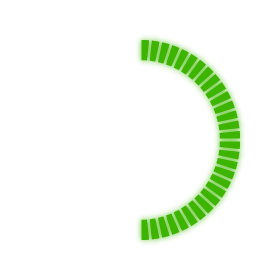
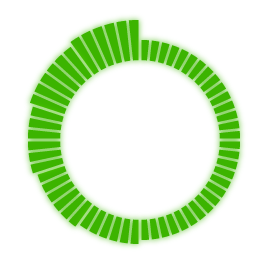
Hp, Steam 동작

Changed region(s): [[0.0857, 0.0571, 0.5143, 0.8857]]

diff --git a/Robotopia/Classes/SteamLayer.cpp b/Robotopia/Classes/SteamLayer.cpp
@@ -2,8 +2,10 @@
 #include "SteamLayer.h"
 #include "Player.h"
 #include "StageManager.h"
+#include "DataManager.h"
 #include "ResourceManager.h"
 #include "InputManager.h"
+#include "EquipmentSteamContainer.h"
 
 SteamLayer::SteamLayer()
 {
@@ -19,32 +21,27 @@ bool SteamLayer::init()
 	{
 		return false;
 	}
-	m_Steam0 = GET_RESOURCE_MANAGER()->createSprite(ST_STEAM_BEAR_00);
-	m_Steam1 = GET_RESOURCE_MANAGER()->createSprite(ST_STEAM_BEAR_01);
-	m_Steam2 = GET_RESOURCE_MANAGER()->createSprite(ST_STEAM_BEAR_02);
-	m_Steam3 = GET_RESOURCE_MANAGER()->createSprite(ST_STEAM_BEAR_03);
-	m_Steam4 = GET_RESOURCE_MANAGER()->createSprite(ST_STEAM_BEAR_04);
-	m_Steam5 = GET_RESOURCE_MANAGER()->createSprite(ST_STEAM_BEAR_05);
+	m_SteamSprite = GET_RESOURCE_MANAGER()->createSprite(ST_STEAM_BEAR_00);
+	m_SteamBar = cocos2d::ProgressTimer::create(m_SteamSprite);
+	m_SteamBar->setScale(0.75f);
+	m_SteamBar->setPosition(cocos2d::Point(160 * RESOLUTION, 160 * RESOLUTION));
+	m_SteamBar->setPercentage(0);
+	m_SteamBar->setBarChangeRate(cocos2d::Point(0, 1));
+	m_SteamBar->setType(cocos2d::ProgressTimer::Type::RADIAL);
+	this->addChild(m_SteamBar);
 
-	m_SteamMask0 = GET_RESOURCE_MANAGER()->createSprite(ST_STEAM_MASK_HALF);
-	m_SteamMask1 = GET_RESOURCE_MANAGER()->createSprite(ST_STEAM_MASK_PART);
-	m_SteamMask2 = GET_RESOURCE_MANAGER()->createSprite(ST_STEAM_MASK_PART);
-	m_SteamMask3 = GET_RESOURCE_MANAGER()->createSprite(ST_STEAM_MASK_PART);
-	m_SteamMask4 = GET_RESOURCE_MANAGER()->createSprite(ST_STEAM_MASK_PART);
-	m_SteamMask5 = GET_RESOURCE_MANAGER()->createSprite(ST_STEAM_MASK_PART);
-	
-	setSteamMask(m_Steam0, m_SteamMask0);
-	setSteamMask(m_Steam1, m_SteamMask1);
-	setSteamMask(m_Steam2, m_SteamMask2);
-	setSteamMask(m_Steam3, m_SteamMask3);
-	setSteamMask(m_Steam4, m_SteamMask4);
-	setSteamMask(m_Steam5, m_SteamMask5);
-
-	m_SteamMask1->setRotation(-144);
-	m_SteamMask2->setRotation(-108);
-	m_SteamMask3->setRotation(-72);
-	m_SteamMask4->setRotation(-36);
-	
+	int steamContainer = static_cast<int>(GET_DATA_MANAGER()->getEquipmentItem().m_Steam);
+	m_SteamLevel = (GET_DATA_MANAGER()->getEquipmentInfo(EMT_STEAMCONTAINER, steamContainer)->m_Level) % 5;
+	if (m_SteamLevel < 0)
+	{
+		m_SteamLevel = 0;
+	}
+	else if (m_SteamLevel > 5)
+	{
+		m_SteamLevel = 5;
+	}
+	m_SteamLevel = 2;
+	m_SteamMaxPercent = 10.0f * m_SteamLevel + 50;
 	return true;
 }
 
@@ -53,21 +50,7 @@ void SteamLayer::update(float dTime)
 	const PlayerInfo player = GET_STAGE_MANAGER()->getPlayer()->getInfo();
 	GearType newGear = player.m_Gear;
 	changeSteamColor(newGear);
-	controlSteam(0, player.m_MaxSteam, player.m_CurrentSteam);
-}
-
-void SteamLayer::setSteamMask(cocos2d::Sprite* steam, cocos2d::Sprite* steamMask)
-{
-	setUIProperties(steam, cocos2d::Point(0.5, 0.5), cocos2d::Point(160 * RESOLUTION, 160 * RESOLUTION), 0.75f, true, 7);
-	setUIProperties(steamMask, cocos2d::Point(0.5, 0.5), cocos2d::Point(160 * RESOLUTION, 160 * RESOLUTION), 0.75f, true, 7);
-	cocos2d::ClippingNode* clipper = cocos2d::ClippingNode::create();
-	clipper->setInverted(true);
-	clipper->setAlphaThreshold(0);
-	clipper->addChild(steam);
-	cocos2d::Node* node = cocos2d::Node::create();
-	node->addChild(steamMask);
-	clipper->setStencil(node);
-	this->addChild(clipper);
+	controlSteam(player.m_MaxSteam, player.m_CurrentSteam);
 }
 
 void SteamLayer::changeSteamColor(GearType gear)
@@ -75,67 +58,30 @@ void SteamLayer::changeSteamColor(GearType gear)
 	switch (gear)
 	{
 	case GEAR_EAGLE:
-		m_Steam0->setTexture(GET_RESOURCE_MANAGER()->createSprite(ST_STEAM_EAGLE_00)->getTexture());
-		m_Steam1->setTexture(GET_RESOURCE_MANAGER()->createSprite(ST_STEAM_EAGLE_01)->getTexture());
-		m_Steam2->setTexture(GET_RESOURCE_MANAGER()->createSprite(ST_STEAM_EAGLE_02)->getTexture());
-		m_Steam3->setTexture(GET_RESOURCE_MANAGER()->createSprite(ST_STEAM_EAGLE_03)->getTexture());
-		m_Steam4->setTexture(GET_RESOURCE_MANAGER()->createSprite(ST_STEAM_EAGLE_04)->getTexture());
-		m_Steam5->setTexture(GET_RESOURCE_MANAGER()->createSprite(ST_STEAM_EAGLE_05)->getTexture());
+		m_SteamSprite->setTexture(GET_RESOURCE_MANAGER()->createSprite(ST_STEAM_EAGLE_00)->getTexture());
 		break;
 	case GEAR_BEAR:
-		m_Steam0->setTexture(GET_RESOURCE_MANAGER()->createSprite(ST_STEAM_BEAR_00)->getTexture());
-		m_Steam1->setTexture(GET_RESOURCE_MANAGER()->createSprite(ST_STEAM_BEAR_01)->getTexture());
-		m_Steam2->setTexture(GET_RESOURCE_MANAGER()->createSprite(ST_STEAM_BEAR_02)->getTexture());
-		m_Steam3->setTexture(GET_RESOURCE_MANAGER()->createSprite(ST_STEAM_BEAR_03)->getTexture());
-		m_Steam4->setTexture(GET_RESOURCE_MANAGER()->createSprite(ST_STEAM_BEAR_04)->getTexture());
-		m_Steam5->setTexture(GET_RESOURCE_MANAGER()->createSprite(ST_STEAM_BEAR_05)->getTexture());
+		m_SteamSprite->setTexture(GET_RESOURCE_MANAGER()->createSprite(ST_STEAM_BEAR_00)->getTexture());
 		break;
 	case GEAR_MONKEY:
-		m_Steam0->setTexture(GET_RESOURCE_MANAGER()->createSprite(ST_STEAM_MONKEY_00)->getTexture());
-		m_Steam1->setTexture(GET_RESOURCE_MANAGER()->createSprite(ST_STEAM_MONKEY_01)->getTexture());
-		m_Steam2->setTexture(GET_RESOURCE_MANAGER()->createSprite(ST_STEAM_MONKEY_02)->getTexture());
-		m_Steam3->setTexture(GET_RESOURCE_MANAGER()->createSprite(ST_STEAM_MONKEY_03)->getTexture());
-		m_Steam4->setTexture(GET_RESOURCE_MANAGER()->createSprite(ST_STEAM_MONKEY_04)->getTexture());
-		m_Steam5->setTexture(GET_RESOURCE_MANAGER()->createSprite(ST_STEAM_MONKEY_05)->getTexture());
+		m_SteamSprite->setTexture(GET_RESOURCE_MANAGER()->createSprite(ST_STEAM_MONKEY_00)->getTexture());
 		break;
 	}
 }
 
-void SteamLayer::controlSteam(int SClevel, int MaxSteam, int CurrentSteam)
+void SteamLayer::controlSteam(int MaxSteam, int CurrentSteam)
 {
-	float steamRatio = CurrentSteam / static_cast<float>(MaxSteam);
-	if (SClevel < 0)
+	if (m_PrevSteam != CurrentSteam)
 	{
-		SClevel = 0;
-	}
-	else if (SClevel > 5)
-	{
-		SClevel = 5;
-	}
+		if (CurrentSteam < 0)
+		{
+			CurrentSteam = 0;
+		}
 
-	if (SClevel == 0)
-	{
-
-	}
-	else if (SClevel == 1)
-	{
-
-	}
-	else if (SClevel == 2)
-	{
-
-	}
-	else if (SClevel == 3)
-	{
-
-	}
-	else if (SClevel == 4)
-	{
-
-	}
-	else if (SClevel == 5)
-	{
-
+		float steamRatio = m_SteamMaxPercent * CurrentSteam / MaxSteam;
+		float duration = steamRatio / 100.0f;
+		cocos2d::ProgressTo* act = cocos2d::ProgressTo::create(duration, steamRatio);
+		m_SteamBar->runAction(act);
+		m_PrevSteam = CurrentSteam;
 	}
 }
-

diff --git a/Robotopia/Classes/HPLayer.cpp b/Robotopia/Classes/HPLayer.cpp
@@ -18,10 +18,15 @@ bool HPLayer::init()
 	{
 		return false;
 	}
-	m_HPbar = GET_RESOURCE_MANAGER()->createSprite(ST_HP_BAR);
-	m_HPMask = GET_RESOURCE_MANAGER()->createSprite(ST_HP_MASK);
-	setHPMask(m_HPbar, m_HPMask);
-	
+	m_HPSprite = GET_RESOURCE_MANAGER()->createSprite(ST_HP_BAR);
+	m_HPBar = cocos2d::ProgressTimer::create(m_HPSprite);
+	m_HPBar->setScale(0.75f);
+	m_HPBar->setPosition(cocos2d::Point(160 * RESOLUTION, 160 * RESOLUTION));
+	m_HPBar->setPercentage(0);
+	m_HPBar->setBarChangeRate(cocos2d::Point(0, 1));
+	m_HPBar->setType(cocos2d::ProgressTimer::Type::RADIAL);
+	this->addChild(m_HPBar);
+
 	return true;
 }
 
@@ -39,24 +44,10 @@ void HPLayer::controlHP(int maxHP, int currentHP)
 	}
 	if (m_PrevHP != currentHP)
 	{
-		float hpAngle = 180.0f * currentHP / maxHP;
-		float duration = hpAngle / 270.0f;
-		auto act = cocos2d::RotateTo::create(duration, hpAngle);
-		m_HPMask->runAction(act);
+		float hpRatio = 50.0f * currentHP / maxHP;
+		float duration = hpRatio / 100.0f;
+		cocos2d::ProgressTo* act = cocos2d::ProgressTo::create(duration, hpRatio);
+		m_HPBar->runAction(act);
 		m_PrevHP = currentHP;
 	}
-}
-
-void HPLayer::setHPMask(cocos2d::Sprite* hpBar, cocos2d::Sprite* hpMask)
-{
-	setUIProperties(hpBar, cocos2d::Point(0.5, 0.5), cocos2d::Point(160 * RESOLUTION, 160 * RESOLUTION), 0.75f, true, 7);
-	setUIProperties(hpMask, cocos2d::Point(0.5, 0.5), cocos2d::Point(160 * RESOLUTION, 160 * RESOLUTION), 0.75f, true, 7);
-	cocos2d::ClippingNode* clipper = cocos2d::ClippingNode::create();
-	clipper->setInverted(true);
-	clipper->setAlphaThreshold(0);
-	clipper->addChild(hpBar);
-	cocos2d::Node* node = cocos2d::Node::create();
-	node->addChild(hpMask);
-	clipper->setStencil(node);
-	this->addChild(clipper);
 }

diff --git a/Robotopia/Classes/SteamLayer.h b/Robotopia/Classes/SteamLayer.h
@@ -26,26 +26,15 @@ public:
 	CREATE_FUNC(SteamLayer);
 
 private:
-	cocos2d::Sprite*		m_Steam0 = nullptr;
-	cocos2d::Sprite*		m_Steam1 = nullptr;
-	cocos2d::Sprite*		m_Steam2 = nullptr;
-	cocos2d::Sprite*		m_Steam3 = nullptr;
-	cocos2d::Sprite*		m_Steam4 = nullptr;
-	cocos2d::Sprite*		m_Steam5 = nullptr;
-
-	cocos2d::Sprite*		m_SteamMask0 = nullptr;
-	cocos2d::Sprite*		m_SteamMask1 = nullptr;
-	cocos2d::Sprite*		m_SteamMask2 = nullptr;
-	cocos2d::Sprite*		m_SteamMask3 = nullptr;
-	cocos2d::Sprite*		m_SteamMask4 = nullptr;
-	cocos2d::Sprite*		m_SteamMask5 = nullptr;
-	cocos2d::Sprite*		m_SteamTest = nullptr;
+	cocos2d::Sprite*		m_SteamSprite = nullptr;
+	cocos2d::ProgressTimer*	m_SteamBar = nullptr;
 
 	GearType				m_CurrentGear = GEAR_NONE;
 	int						m_SteamLevel = 0;
+	int						m_PrevSteam = 0;
+	float					m_SteamMaxPercent = 0;
 
-	void					setSteamMask(cocos2d::Sprite* steam, cocos2d::Sprite* steamMask);
-	void					controlSteam(int SClevel, int MaxSteam, int CurrentSteam);
+	void					controlSteam(int MaxSteam, int CurrentSteam);
 	void					controlSteamColor();
 	void					changeSteamColor(GearType gear);
 };

diff --git a/Robotopia/Classes/AssemblyLineLayer.cpp b/Robotopia/Classes/AssemblyLineLayer.cpp
@@ -272,7 +272,6 @@ void AssemblyLineLayer::setConfirmSet(cocos2d::Point mousePoint)
 		for (int i = static_cast<int>(HL_START)+1; i < static_cast<int>(HL_END); ++i)
 		{
 			iconState = m_HeadList[i]->getEquipmentIconState();
-			head = static_cast<HeadList>(m_HeadList[i]->getEquipmentInfo().m_Type);
 			if (iconState == ICON_SELECTED)
 			{
 				head = static_cast<HeadList>(m_HeadList[i]->getEquipmentInfo().m_Type);

diff --git a/Robotopia/Classes/HPLayer.h b/Robotopia/Classes/HPLayer.h
@@ -25,11 +25,9 @@ public:
 
 	CREATE_FUNC(HPLayer);
 private:
-	cocos2d::Sprite*		m_HPbar = nullptr;
-	cocos2d::Sprite*		m_HPMask = nullptr;
+	cocos2d::Sprite*		m_HPSprite = nullptr;
+	cocos2d::ProgressTimer* m_HPBar = nullptr;
 
 	int						m_PrevHP = 0;
 	void					controlHP(int maxHP, int currentHP);
-	void					setHPMask(cocos2d::Sprite* hpBar, cocos2d::Sprite* hpMask);
-
 };
